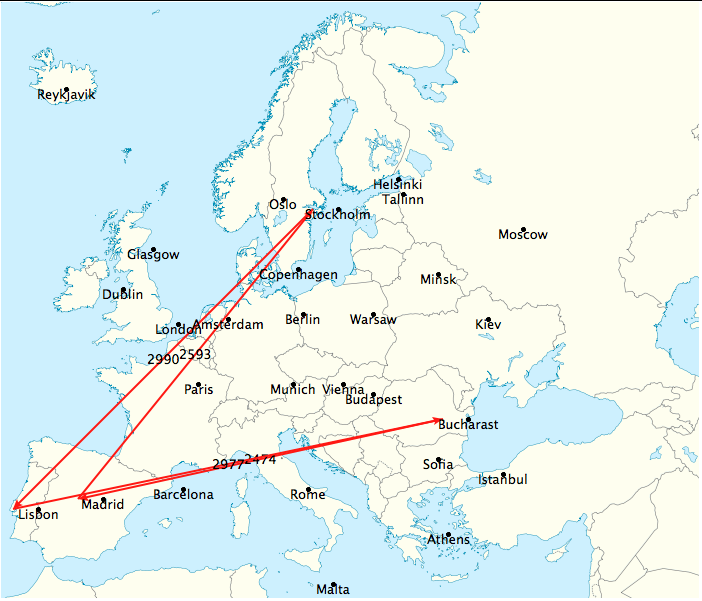
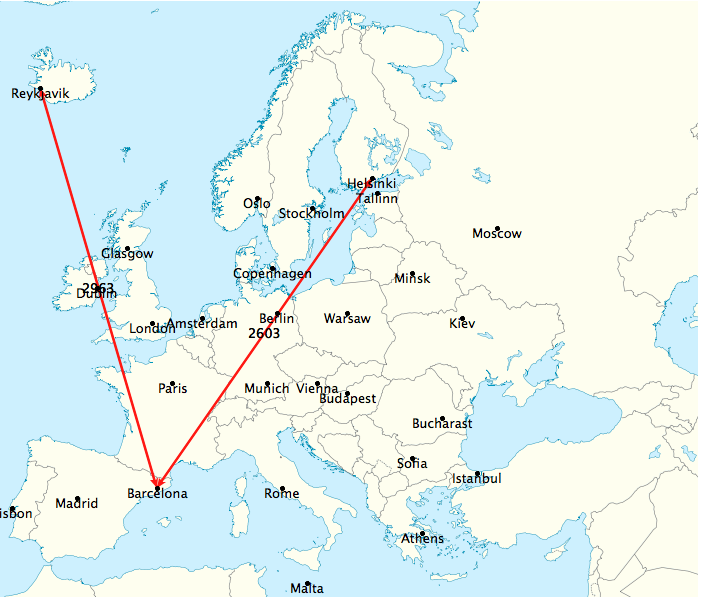
fix best tour one plane plaatjes

diff --git a/report/final_report.tex b/report/final_report.tex
@@ -116,15 +116,15 @@ The airline has a fleet of six Airbus A321 aircrafts with speed of 800km/h, capa
 \\
 \begin{figure}[!h]
 \centering
-\includegraphics[width=2.5in, trim=0 0 0 2, clip=true]{best_tour_one_plane}
+\includegraphics[width=2.5in]{best_tour_one_plane_amsterdam}
 \caption{Best tour for one plane with homebase Amsterdam, passenger kilometer score 2069202.}
 \label{fig:one_plane_amsterdam}
 \end{figure}
 \\
 \begin{figure}[!h]
 \centering
-\includegraphics[width=2.5in, trim=0 0 0 2, clip=true]{best_tour_one_plane}
-\caption{Best tour for one plane with any homebase, passenger kilometer score 2195766.}
+\includegraphics[width=2.5in]{best_tour_one_plane}
+\caption{Best tour for one plane with any homebase, passenger kilometer score 2215268.}
 \label{fig:one_plane}
 \end{figure}
 \section{Analysis}
